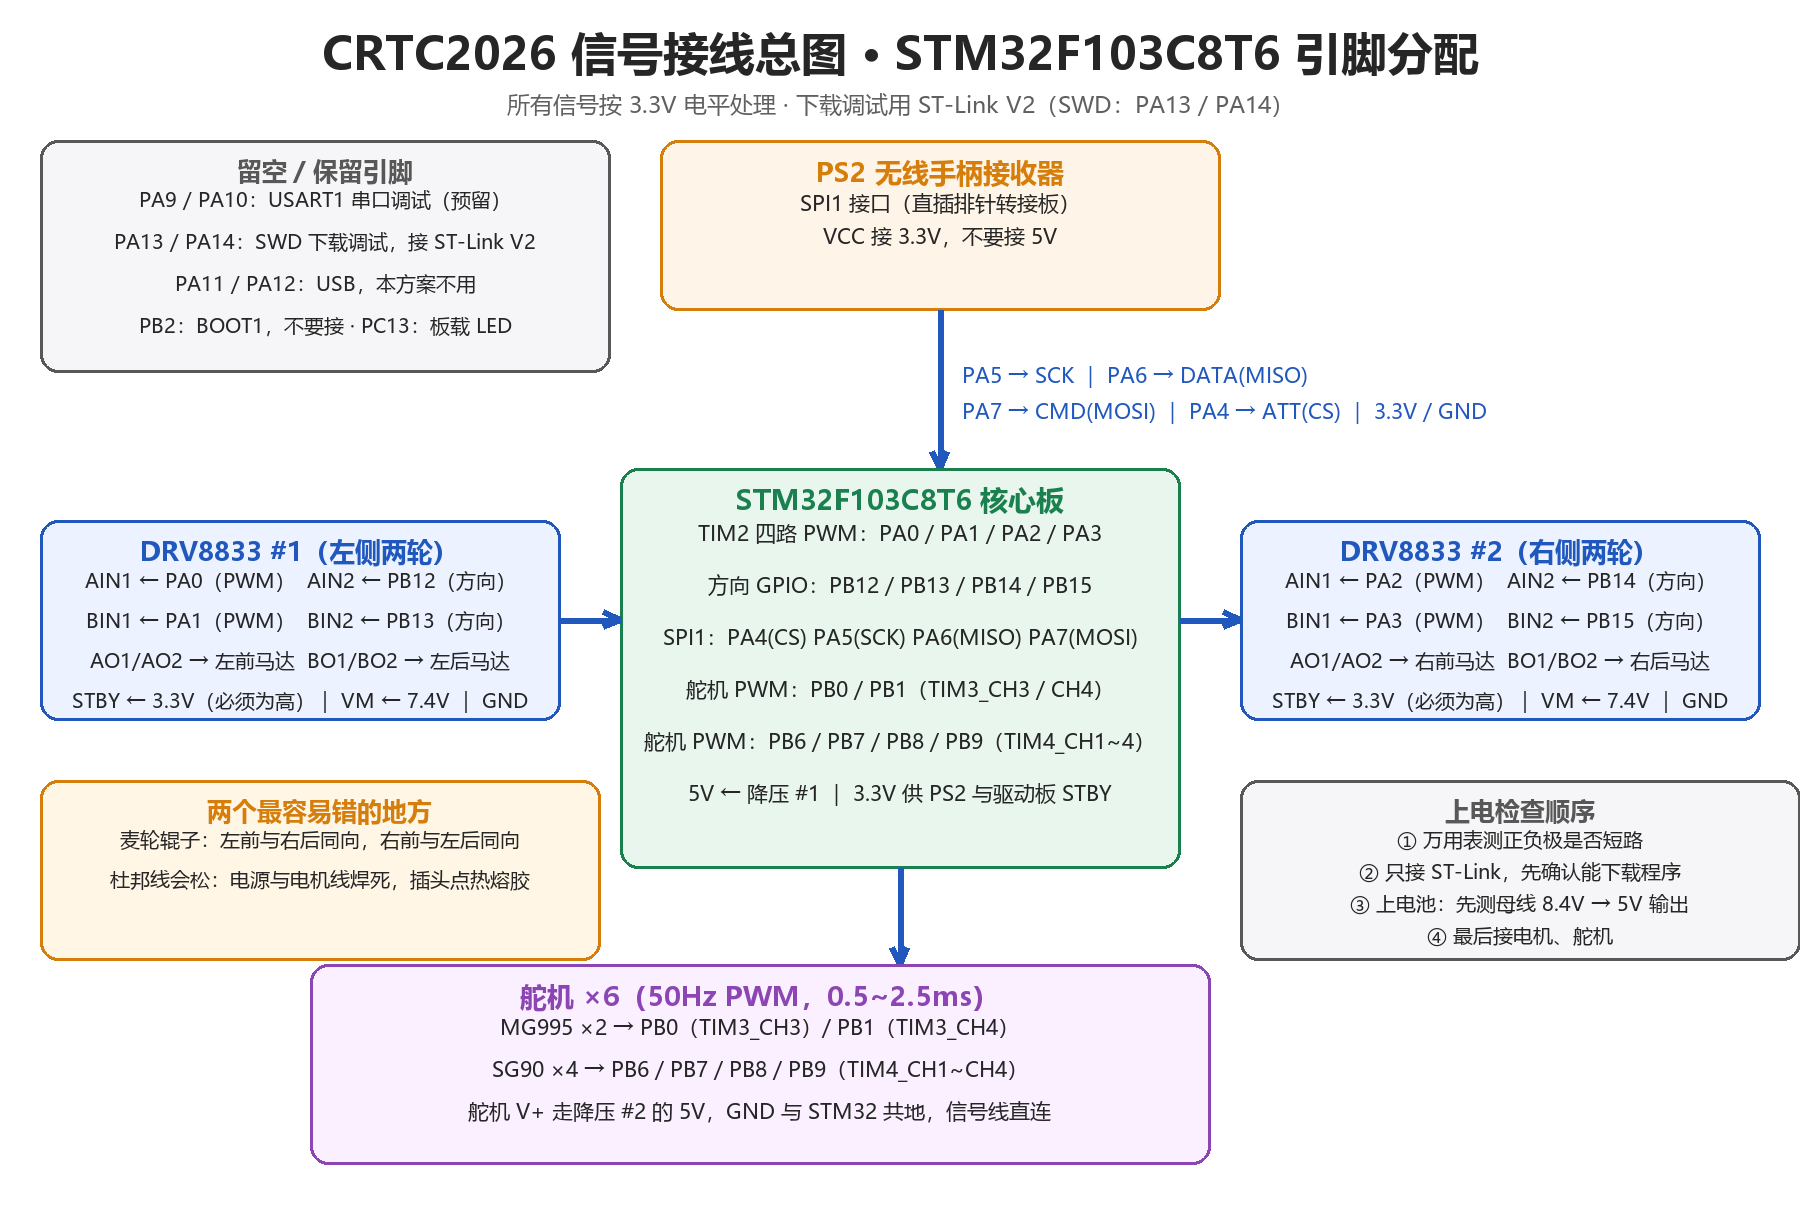
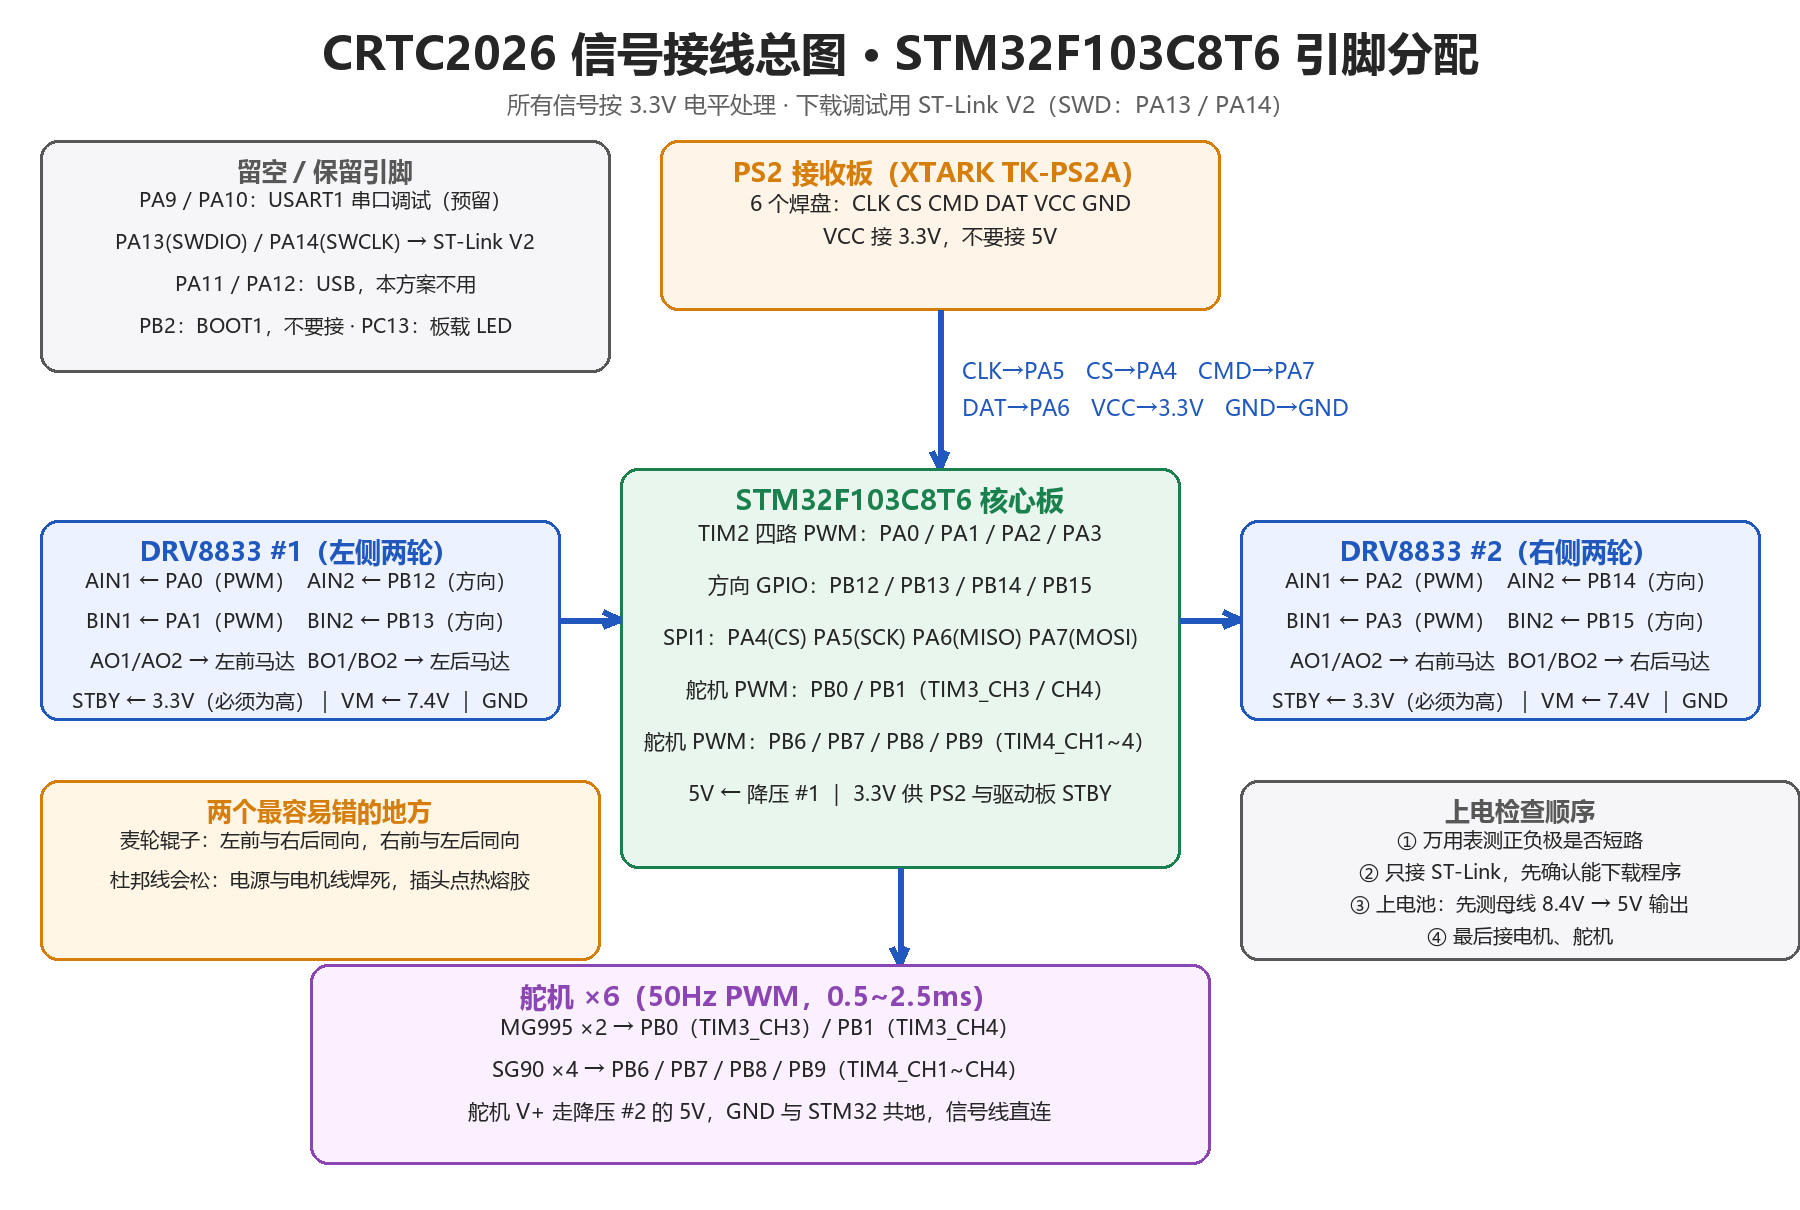
docs: 补录电源自检实测值，新增 ST-Link 接线与 PS2 接收板实物丝印对应

Changed region(s): [[0.5289, 0.3058, 0.7467, 0.3669], [0.4044, 0.1223, 0.6222, 0.1835], [0.0622, 0.1835, 0.28, 0.214]]

diff --git a/tools/make_wiring_diagrams.py b/tools/make_wiring_diagrams.py
@@ -142,18 +142,17 @@ def build_signal():
 
     box(d, 40, 140, 570, 232, "留空 / 保留引脚",
         ["PA9 / PA10：USART1 串口调试（预留）",
-         "PA13 / PA14：SWD 下载调试，接 ST-Link V2",
+         "PA13(SWDIO) / PA14(SWCLK) → ST-Link V2",
          "PA11 / PA12：USB，本方案不用",
          "PB2：BOOT1，不要接 · PC13：板载 LED"],
         fill=(246, 246, 248), outline=GRY, ts=25, bs=20, lh=42)
 
-    box(d, 660, 140, 560, 170, "PS2 无线手柄接收器",
-        ["SPI1 接口（直插排针转接板）", "VCC 接 3.3V，不要接 5V"],
+    box(d, 660, 140, 560, 170, "PS2 接收板（XTARK TK-PS2A）",
+        ["6 个焊盘：CLK CS CMD DAT VCC GND", "VCC 接 3.3V，不要接 5V"],
         fill=(255, 244, 232), outline=ORG, ts=27, bs=21)
     arrow(d, (940, 310), (940, 468), BLU, width=6)
-    d.text((962, 360), "PA5 → SCK ｜ PA6 → DATA(MISO)", font=F(21), fill=BLU)
-    d.text((962, 396), "PA7 → CMD(MOSI) ｜ PA4 → ATT(CS) ｜ 3.3V / GND",
-           font=F(21), fill=BLU)
+    d.text((962, 355), "CLK→PA5   CS→PA4   CMD→PA7", font=F(22), fill=BLU)
+    d.text((962, 392), "DAT→PA6   VCC→3.3V   GND→GND", font=F(22), fill=BLU)
 
     box(d, 620, 468, 560, 400, "STM32F103C8T6 核心板",
         ["TIM2 四路 PWM：PA0 / PA1 / PA2 / PA3",

diff --git a/docs/01-电气接线.md b/docs/01-电气接线.md
@@ -152,19 +152,47 @@
 
 ### 接线表
 
-| 接收器引脚 | STM32 引脚 | 说明 |
+本队使用的接收板为 **XTARK TK-PS2A V1.0**，一排 6 个焊盘，丝印顺序为 `CLK / CS / CMD / DAT / VCC / GND`：
+
+| 接收板丝印 | STM32 引脚 | 说明 |
 | --- | --- | --- |
-| ATT / SEL（片选） | PA4 | 软件控制片选 |
-| CLK（时钟） | PA5 | SPI1_SCK |
-| DATA（数据，接收器 → 主控） | PA6 | SPI1_MISO |
-| CMD（命令，主控 → 接收器） | PA7 | SPI1_MOSI |
+| CLK | PA5 | SPI1_SCK，主控输出时钟 |
+| CS | PA4 | 片选（即手册中常写的 ATT / SEL），软件拉低选中 |
+| CMD | PA7 | SPI1_MOSI，主控 → 接收板（命令） |
+| DAT | PA6 | SPI1_MISO，接收板 → 主控（数据） |
 | VCC | 3.3V | 注意：接 3.3V，不要接 5V |
 | GND | GND | 与主控共地 |
+
+**注意**：丝印顺序（CLK、CS、CMD、DAT）与常见 PS2 接收器的引脚顺序（DATA、CMD、ATT、CLK）并不一致，接线时按丝印逐个对应，不要按位置对称去猜。
 
 ### 设计说明
 
 1. **为什么 VCC 取 3.3V**：主控 I/O 电平为 3.3V，接收器同样按 3.3V 供电可避免电平不匹配损伤引脚。
 2. **DATA / CMD 是交叉关系**：接收器的数据输出接主控输入（MISO），命令输入接主控输出（MOSI），这是最容易接错的两根线。若接线正确仍读不到数据，先用示波器 / 逻辑分析仪确认 CLK 是否有时钟输出。
+
+## ST-Link 下载与调试接线
+
+### 功能描述
+
+使用 ST-Link V2（Telesky 金壳款，2×5 排针）给 STM32F103C8T6 核心板下载与调试程序，接口取核心板短边的 SWD 四针（`3.3V / SWDIO / SWCLK / GND`）。
+
+### 接线表
+
+| ST-Link 外壳丝印 | 核心板 SWD 口 | 说明 |
+| --- | --- | --- |
+| SWCLK | SWCLK（CLK） | 时钟，必须接 |
+| SWDIO | SWDIO（DIO） | 数据，必须接 |
+| GND | GND | 共地，必须接 |
+| 3.3V | 3.3V | 仅在核心板没有其他供电时接（由 ST-Link 给板子供电） |
+| 5.0V | 不接 | 不要接 |
+| RST | 可选（接核心板 RST） | 复位，通常不接也能正常下载 |
+| SWIM | 不接 | STM8 专用 |
+
+### 注意事项
+
+1. **不要让 ST-Link 的 3.3V 和外部 5V 同时给核心板供电**。用电池给核心板供电（5V 引脚）时，ST-Link 只接 `SWCLK` / `SWDIO` / `GND` 三根；只用 ST-Link 调试时，核心板可以先不接电池。
+2. 下载前确认核心板 `BOOT0`、`BOOT1` 跳线都在 0 位。
+3. 电脑识别不到 ST-Link 时，先怀疑 USB 线——有些线只能充电、不能传数据。
 
 ## 舵机接线与供电
 
@@ -213,9 +241,9 @@
 | 日期 | 检查项 | 预期 | 实测 | 结论 |
 | --- | --- | --- | --- | --- |
 | 10-12 | 电池盒输出（两节 18650） | 2S 串联，7.4~8.4V | 已用万用表确认为串联 | 通过 |
-| 10-12 | 母线电压（继电器之后） | 与电池电压一致 | 已实测正常（数值待补录） | 通过 |
-| 10-12 | 降压模块 #1 输出（逻辑供电） | 5.0V ± 0.1 | 已实测正常（数值待补录） | 通过 |
-| 10-12 | 降压模块 #2 输出（舵机供电） | 5.0V ± 0.1 | 已实测正常（数值待补录） | 通过 |
+| 10-12 | 母线电压（继电器之后） | 与电池电压一致 | 7.23V | 通过 |
+| 10-12 | 降压模块 #1 输出（逻辑供电） | 5.0V ± 0.1 | 4.77V（偏低，待调） | 待优化 |
+| 10-12 | 降压模块 #2 输出（舵机供电） | 5.0V ± 0.1 | 4.89V（偏低，待调） | 待优化 |
 | 10-12 | 遥控断电功能 | 按下断电、再按恢复 | 按住断电、松手立即恢复（模块出厂为点动模式） | 部分通过，待改自锁 |
 | — | 驱动板 STBY 使能 | STBY = 3.3V，电机可转 | 待测 | 待测 |
 | — | 四轮转向一致性 | 前进指令下四轮同向 | 待测 | 待测 |

diff --git a/README.md b/README.md
@@ -46,7 +46,7 @@
 | 舵机 | MG995（180°，金属齿）×2、SG90（180°）×4 | 6 |
 | 供电 | 18650 双节电池盒（2S 7.4V）+ 无线继电器 | 1 套 |
 | 稳压 | Mini DC-DC 降压模块（7.4V → 5V） | 2 |
-| 遥控 | PS2 无线手柄（锁定款）+ 直插接收板 | 1 |
+| 遥控 | PS2 无线手柄（锁定款）+ XTARK TK-PS2A 接收板 | 1 |
 
 ## 进度
 
